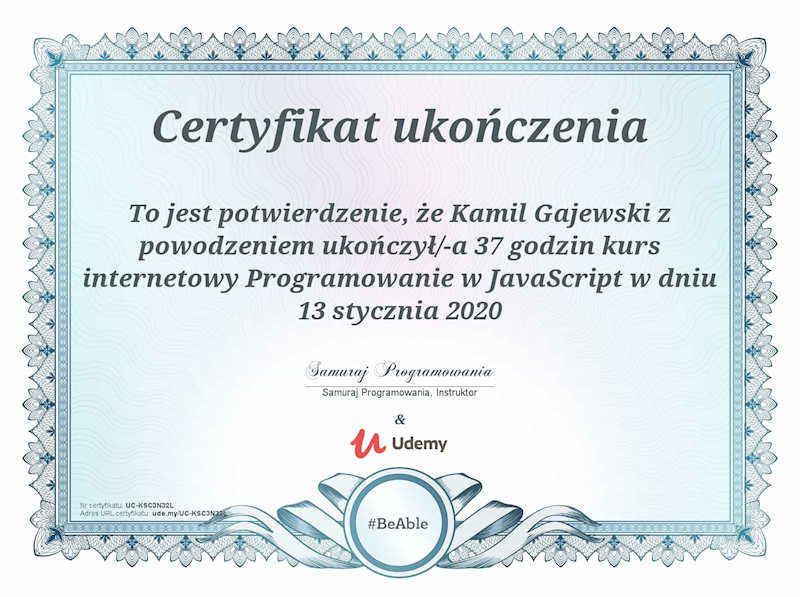
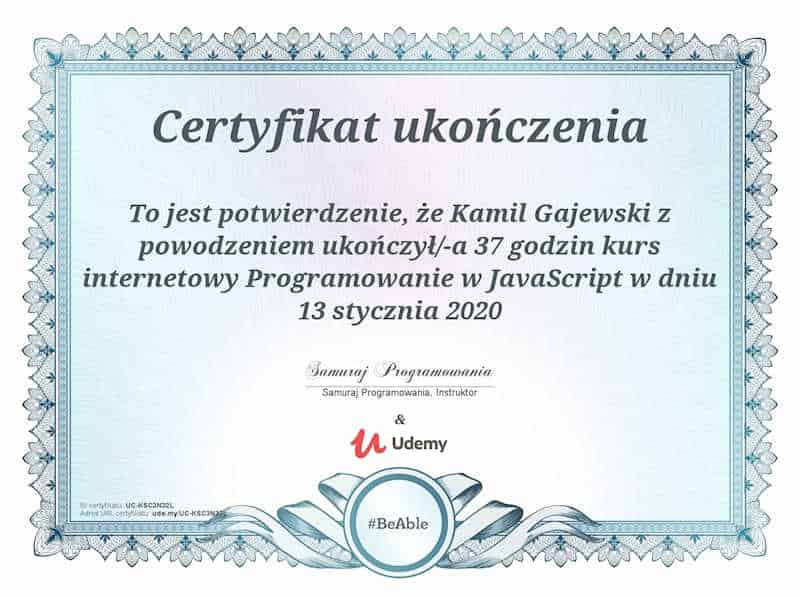
Optimized photos and few fixed code

diff --git a/src/layout/Portfolio.tsx b/src/layout/Portfolio.tsx
@@ -1,4 +1,4 @@
-import { Link, NavLink } from "react-router-dom";
+import { Link } from "react-router-dom";
 import { useState } from "react";
 import { Fade } from "react-awesome-reveal";
 
@@ -44,6 +44,7 @@ const Portfolio = () => {
 						</p>
 					</div>
 					<div className="portfolio__links">
+						{/* FIRST */}
 						<Link
 							to="https://artinka.pl"
 							className={`css-1c2fuzs portfolio__link img-box first ${
@@ -66,6 +67,7 @@ const Portfolio = () => {
 							</button>
 						</Link>
 
+						{/* SECOND */}
 						<Link
 							onMouseEnter={() => setSecondAnimation(true)}
 							onMouseLeave={() => setSecondAnimation(false)}
@@ -88,6 +90,7 @@ const Portfolio = () => {
 							</button>
 						</Link>
 
+						{/* THIRD */}
 						<Link
 							to="https://dekarz.elblag.pl/"
 							className={`css-1c2fuzs portfolio__link img-box third ${
@@ -110,6 +113,7 @@ const Portfolio = () => {
 							</button>
 						</Link>
 
+						{/* FOURTH */}
 						<Link
 							to="#"
 							className={`css-1c2fuzs portfolio__link img-box fourth ${
@@ -131,6 +135,7 @@ const Portfolio = () => {
 							</button>
 						</Link>
 
+						{/* FIFTH */}
 						<Link
 							to="https://kwaq102.github.io/agency-travel-story/"
 							className={`css-1c2fuzs portfolio__link img-box fifth ${
@@ -151,6 +156,8 @@ const Portfolio = () => {
 								<span className="fa-regular fa-circle-play"></span>
 							</button>
 						</Link>
+
+						{/* SIXTH */}
 						<Link
 							to="#"
 							className={`css-1c2fuzs portfolio__link img-box sixth ${
@@ -165,8 +172,8 @@ const Portfolio = () => {
 								className="portfolio__link-image travel"
 							/>
 							<p className="portfolio__link-text">
-								Strona www dla wirtualnej assystentki i wsparcie prowadzenia
-								działalności.
+								Projekt strony www dla wirtualnej assystentki i wsparcie
+								prowadzenia działalności.
 							</p>
 							<button className="portfolio__play-btn">
 								<span className="fa-regular fa-circle-play"></span>

diff --git a/src/components/Form.tsx b/src/components/Form.tsx
@@ -1,4 +1,4 @@
-import React, { FormEvent, useEffect, useState } from "react";
+import { FormEvent, useEffect, useState } from "react";
 import { Link } from "react-router-dom";
 import axios from "axios";
 import Loading from "./Loading";
@@ -30,7 +30,7 @@ const Form = () => {
 		const timer = setTimeout(() => {
 			setSuccess(false);
 			setStatus(false);
-		}, 6000);
+		}, 5000);
 
 		return () => clearInterval(timer);
 	}, [success, status]);
@@ -39,7 +39,7 @@ const Form = () => {
 		const timer = setTimeout(() => {
 			setFailed(false);
 			setStatus(false);
-		}, 6000);
+		}, 5000);
 
 		return () => clearInterval(timer);
 	}, [failed, status]);
@@ -51,7 +51,6 @@ const Form = () => {
 			...form,
 			[key]: value,
 		}));
-		console.log(form.checked);
 	};
 
 	const updateErrorsMessage = (key: string, value: string) => {
@@ -93,7 +92,6 @@ const Form = () => {
 			errorsMessage.message ||
 			errorsMessage.checked
 		) {
-			console.log("jesteśmy w błędzie");
 			return;
 		}
 
@@ -101,27 +99,22 @@ const Form = () => {
 
 		try {
 			const response = await axios.post(
-				// "https://gajewwwski.net/contact/contact.php",
-				"http://localhost/contact/contact.php",
-
+				"https://gajewwwski.net/contact/contact.php",
 				{
 					email: form.email,
 					name: form.name,
 					message: form.message,
 				}
 			);
-			console.log(response);
 
 			if (response.status !== 200) {
-				console.log(response);
-				console.error("Nie można wysłać wiadomosći");
+				setFailed(true);
 			} else {
 				setSuccess(true);
 				clearForm();
 			}
 		} catch (e) {
 			setFailed(true);
-			console.error("Nie można wysłać wiadomosći");
 		} finally {
 			setLoading(false);
 			setStatus(true);

diff --git a/src/pages/AboutPage.tsx b/src/pages/AboutPage.tsx
@@ -27,8 +27,6 @@ import MyValues from "../components/MyValues";
 import CertificatesGallery from "../components/Galleries/CertificatesGallery";
 import { useLocation } from "react-router-dom";
 
-//TODO Ogólnie podzielić ten komponent bo jest za wielki jak po mojemu
-
 const AboutPage = () => {
 	const [isMobile, setIsMobile] = useState(window.innerWidth < 900);
 	const location = useLocation();
@@ -180,8 +178,6 @@ const AboutPage = () => {
 						</h2>
 						<div className="about__values">
 							<ul className="about__values__list">
-								{/* TODO ten list item jest podobny jak komponent OfferElement - może uda się go połączyć */}
-
 								<MyValues
 									children={<Fire size="100" />}
 									title="Pasja"
@@ -267,7 +263,6 @@ const AboutPage = () => {
 							</div>
 						</div>
 					</Element>
-					{/* <div>POMYŚLEĆ TU O JAKIEJŚ CALL TO ACTION</div> */}
 				</section>
 			</div>
 		</Fade>

diff --git a/src/pages/HomePage.tsx b/src/pages/HomePage.tsx
@@ -44,10 +44,10 @@ const HomePage = () => {
 				<CallToAction
 					title="Twoja przygoda zaczyna się tutaj!"
 					description="Miło mi, że zainteresowałeś się moją stroną! To tylko wierzchołek góry
-				lodowej, bo najważniejsze jest to, że teraz Ty możesz stworzyć swoją
-				własną wyjątkową stronę internetową! Niech Twoja historia zacznie się
-				właśnie tutaj. Napisz do mnie już dziś, abyśmy mogli razem zrealizować
-				Twoje pomysły i stworzyć coś wyjątkowego!"
+					lodowej, bo najważniejsze jest to, że teraz Ty możesz stworzyć swoją
+					własną wyjątkową stronę internetową! Niech Twoja historia zacznie się
+					właśnie tutaj. Napisz do mnie już dziś, abyśmy mogli razem zrealizować
+					Twoje pomysły i stworzyć coś wyjątkowego!"
 				/>
 				<Contact />
 			</main>

diff --git a/src/components/Particles.tsx b/src/components/Particles.tsx
@@ -1,12 +1,11 @@
+import { useCallback, useMemo, useState } from "react";
 import Particles from "react-tsparticles";
 import type { Engine } from "tsparticles-engine";
 import { loadSlim } from "tsparticles-slim";
-import { useCallback, useMemo } from "react";
 
 const ParticlesComponent = () => {
-	// TODO Tutaj zrobić jakis hook, który zareaguje na szerokość okna przeglądarki i ustawi liczbę kropek
-
-	// TODO ogarnnąć abyt tylko działało na headerze a nie na całej stronie
+	const [isMobile, setIsMobile] = useState(window.innerWidth < 800);
+	const dotNumbers = isMobile ? 10 : 30;
 
 	const options = useMemo(() => {
 		return {
@@ -54,7 +53,7 @@ const ParticlesComponent = () => {
 					value: { min: 1, max: 3 },
 				},
 				number: {
-					value: 30,
+					value: dotNumbers,
 				},
 			},
 			style: {

diff --git a/src/styles/_Header.scss b/src/styles/_Header.scss
@@ -1,7 +1,7 @@
 .header {
 	position: relative;
 	height: 100vh;
-	background-image: url("../img/header/bg-header-min.jpg");
+	background-image: url("../img/header/bg-header-mobile.jpg");
 	background-size: cover;
 	background-repeat: no-repeat;
 	background-attachment: fixed;
@@ -154,7 +154,7 @@
 		display: block;
 		height: 100%;
 		width: 40%;
-		background: url("../img/bg.png");
+		background: url("../img/header/bg.png");
 		background-size: 500px;
 		background-repeat: no-repeat;
 		background-position-y: center;

diff --git a/src/App.tsx b/src/App.tsx
@@ -12,9 +12,8 @@ import PortfolioPage from "./pages/PortfolioPage";
 import ErrorPage from "./pages/ErrorPage";
 import { hiddenMenu } from "./redux/features/menuSlice";
 import ArrowTop from "./components/ArrowTop";
-import Loading from "./components/Loading";
 
-function App() {
+const App = () => {
 	const menu = useSelector((state: RootState) => state.menu.value);
 	const dispatch = useDispatch();
 
@@ -46,6 +45,6 @@ function App() {
 			<Footer />
 		</div>
 	);
-}
+};
 
 export default App;

diff --git a/src/layout/MyAdvantages.tsx b/src/layout/MyAdvantages.tsx
@@ -1,11 +1,10 @@
-import photo from "../img/image-advantages.png";
 import { useNavigate } from "react-router-dom";
 import HeadingSection from "../components/HeadingSection";
 import { Fade } from "react-awesome-reveal";
+import photo from "../img/image-advantages.png";
 
 const MyAdvantages = () => {
 	const navigate = useNavigate();
-
 	const scrollToCertificates = () => {
 		navigate("/o-mnie", { state: { scrollTo: "certificates" } });
 	};

diff --git a/src/styles/_Navigation.scss b/src/styles/_Navigation.scss
@@ -8,7 +8,7 @@
 	width: 100%;
 	padding: 0 2em;
 	z-index: 5;
-	transition: background-color 0.5s;
+	transition: background-color 0.3s ease-in-out;
 }
 
 .main-nav.nav-bg {
@@ -161,8 +161,15 @@
 
 @media (min-width: map-get($breakpoints, xl)) {
 	.main-nav {
+		height: 80px;
 		padding: 0 10em;
+		transition: height 0.3s ease-in-out;
 	}
+
+	.main-nav.nav-bg {
+		height: 60px;
+	}
+
 	.main-nav__btn {
 		display: none;
 	}

diff --git a/src/layout/About.tsx b/src/layout/About.tsx
@@ -1,4 +1,4 @@
-import { Link, NavLink } from "react-router-dom";
+import { Link } from "react-router-dom";
 import HeadingSection from "../components/HeadingSection";
 import { scrollToTop } from "../ts/scrollTop";
 
@@ -57,7 +57,6 @@ const About = () => {
 					</div>
 				</div>
 			</div>
-			{/* Te zdjęcie może takie po skosie jak w aktywwwni */}
 			<div className="about__image"></div>
 		</section>
 	);

diff --git a/src/layout/Contact.tsx b/src/layout/Contact.tsx
@@ -27,7 +27,7 @@ const Contact = () => {
 						<span className="fa-solid fa-earth-europe contact__details__icon"></span>
 						<h5 className="contact__details__box__title">Adres</h5>
 						<p className="contact__details__text">
-							On-Line <span>Pracuję zdalnie</span>
+							On-Line - <span>pracuję zdalnie</span>
 						</p>
 					</div>
 					<div className="contact__details__box__socials">

diff --git a/src/layout/Header.tsx b/src/layout/Header.tsx
@@ -25,7 +25,7 @@ const Header = () => {
 							<h1 className="header-title">
 								<span>Nowoczesne</span>
 								<br />
-								Strony internetowe <strong>gajewwwski.pl</strong>
+								Strony internetowe <strong>gajewwwski.net</strong>
 							</h1>
 							<p className="header-text">
 								Strony internetowe tworzone z pasją! Wprowadź swoją firmę do
